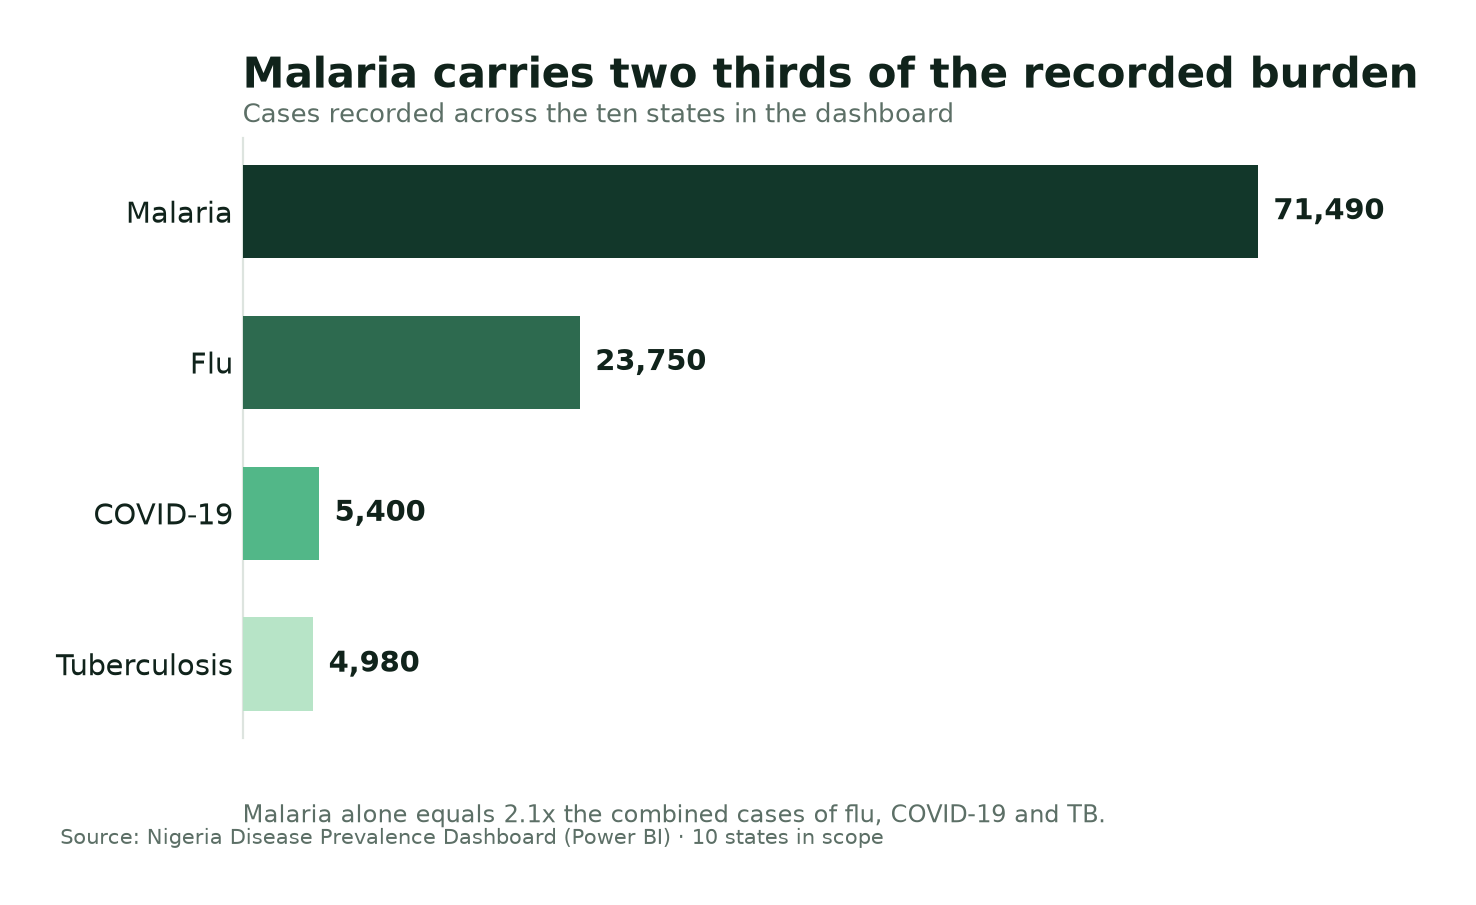
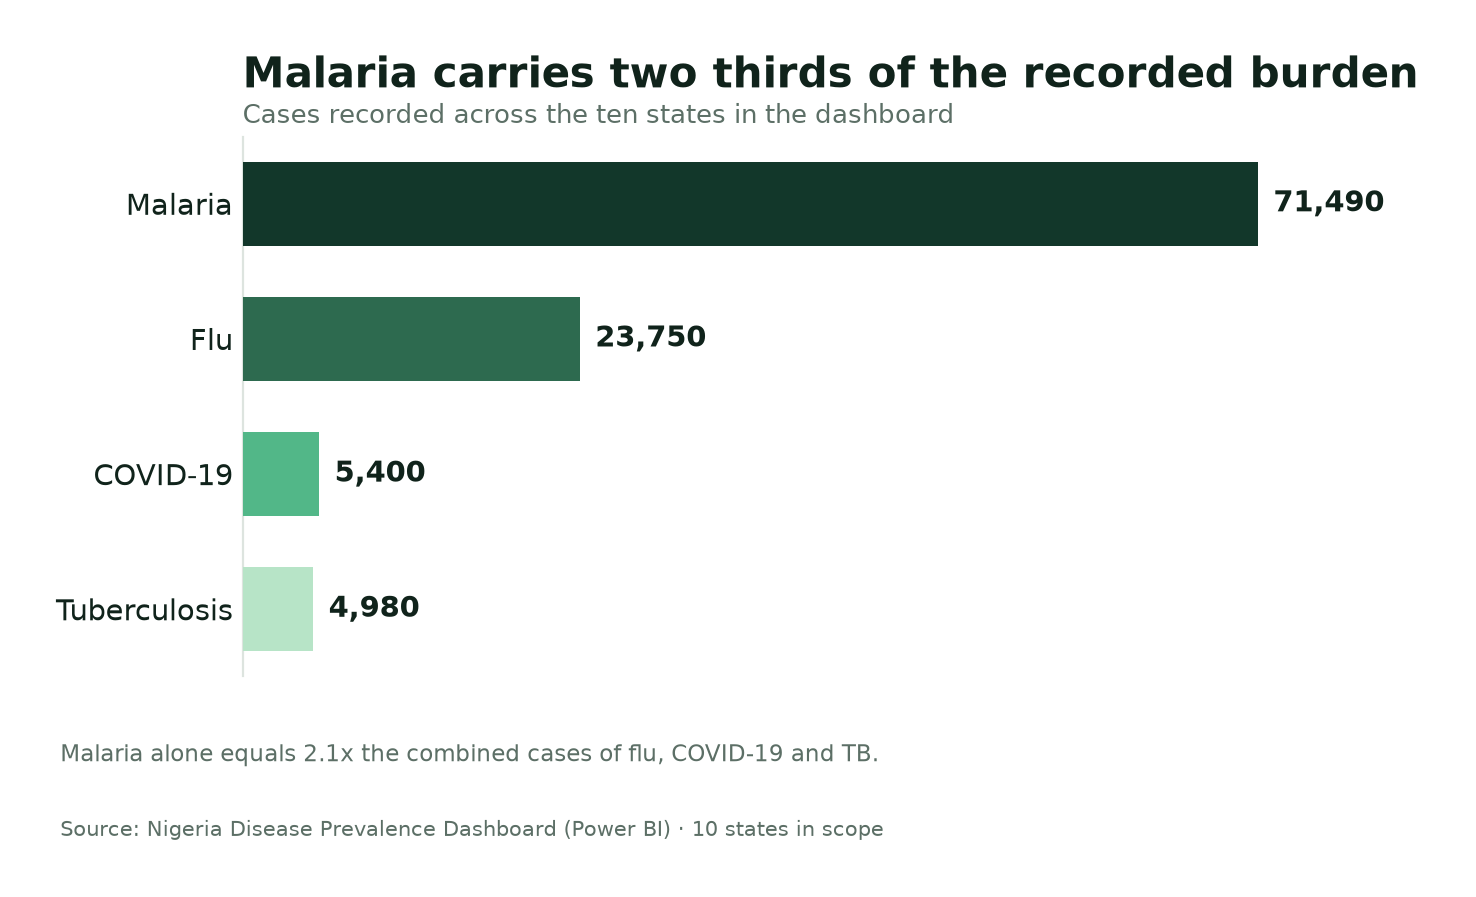
style: separate chart footnotes from source lines

diff --git a/src/figures.py b/src/figures.py
@@ -108,8 +108,13 @@ def titles(ax, title: str, subtitle: str | None = None) -> None:
         )
 
 
-def footer(fig, text: str) -> None:
-    fig.text(0.005, -0.005, text, fontsize=7.6, color=MUTED, va="top", ha="left")
+def footer(fig, text: str, y: float = -0.005) -> None:
+    fig.text(0.005, y, text, fontsize=7.6, color=MUTED, va="top", ha="left")
+
+
+def note(fig, text: str, y: float = 0.048) -> None:
+    """Editorial footnote rendered just below the axes, above the source line."""
+    fig.text(0.005, y, text, fontsize=8.4, color=MUTED, va="bottom", ha="left")
 
 
 def strip(ax, keep: str = "left") -> None:
@@ -158,15 +163,9 @@ def fig_disease_burden() -> None:
         "Malaria carries two thirds of the recorded burden",
         "Cases recorded across the ten states in the dashboard",
     )
-    ax.text(
-        0.0,
-        -0.14,
-        f"Malaria alone equals {ratio:.1f}x the combined cases of flu, COVID-19 and TB.",
-        transform=ax.transAxes,
-        fontsize=8.6,
-        color=MUTED,
-    )
-    footer(fig, SOURCE)
+    fig.subplots_adjust(bottom=0.165, top=0.855)
+    note(fig, f"Malaria alone equals {ratio:.1f}x the combined cases of flu, COVID-19 and TB.")
+    footer(fig, SOURCE, y=-0.02)
     save(fig, "fig01_disease_burden.png")
 
 
@@ -281,15 +280,12 @@ def fig_state_ranking() -> None:
         borderaxespad=0.2,
         labelcolor=MUTED,
     )
-    ax.text(
-        0.0,
-        -0.13,
+    fig.subplots_adjust(bottom=0.155, top=0.865)
+    note(
+        fig,
         "Oyo appears in the dashboard state filter but no case value was published, so it is omitted.",
-        transform=ax.transAxes,
-        fontsize=8.2,
-        color=MUTED,
     )
-    footer(fig, SOURCE)
+    footer(fig, SOURCE, y=-0.02)
     save(fig, "fig03_covid19_by_state.png")
 
 
